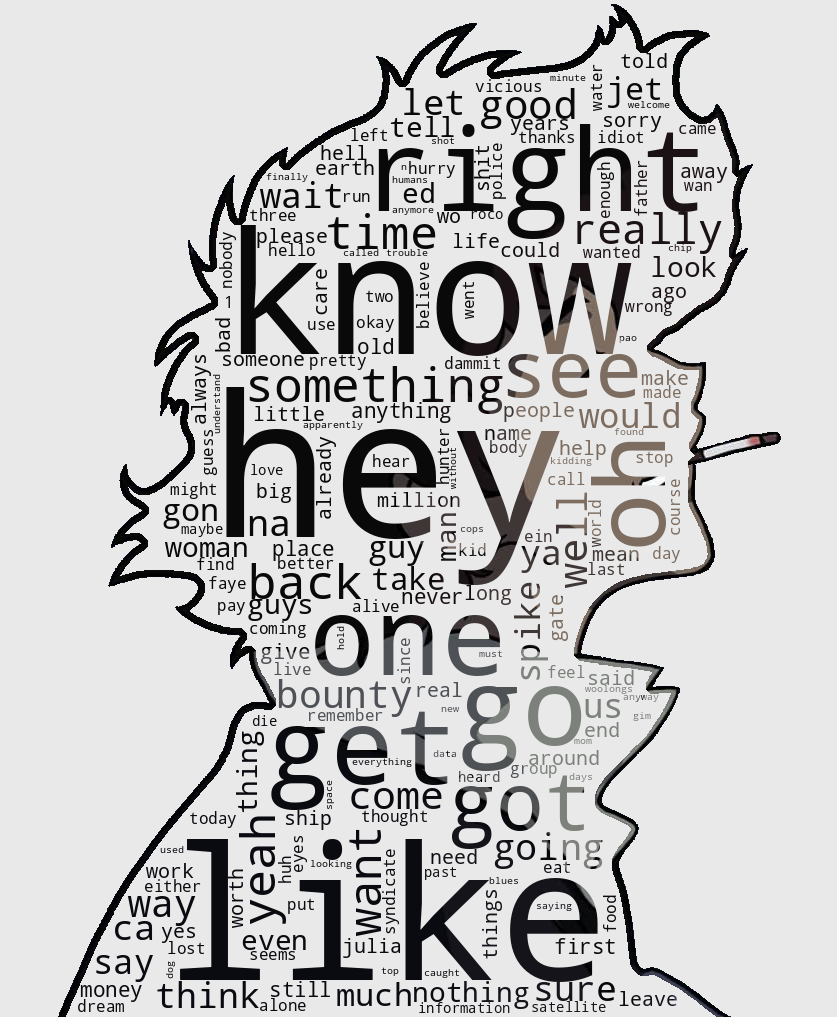
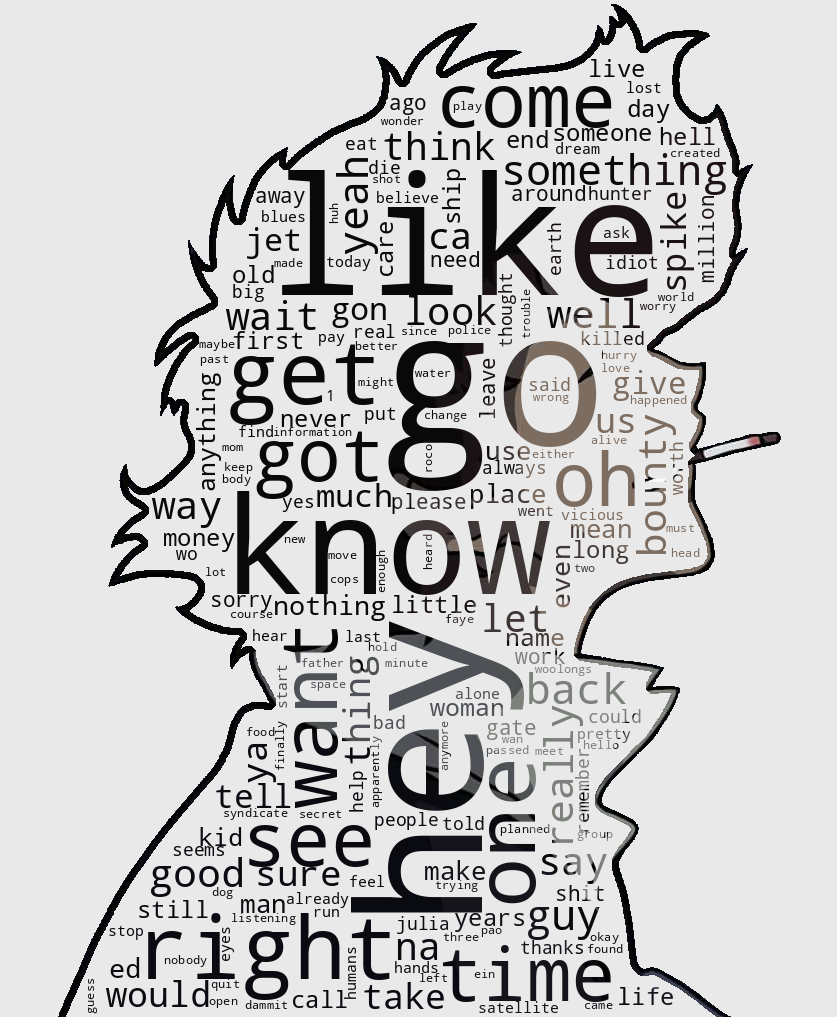
improve tokenization

Changed region(s): [[0.0932, 0.061, 0.8698, 1.0]]

diff --git a/animes/mirai_nikki/__init__.py b/animes/mirai_nikki/__init__.py
@@ -4,6 +4,7 @@ import itertools
 import os
 
 import nltk
+from nltk.tokenize import TweetTokenizer
 import webvtt
 
 
@@ -16,7 +17,8 @@ def get_words():
 
 def get_words_from_subtitles(file):
     "Get the words from the whole serie"
+    tknzr = TweetTokenizer()
     file_words = []
     for caption in webvtt.read(file):
-        file_words.extend(nltk.tokenize.word_tokenize(caption.text))
+        file_words.extend(tknzr.tokenize(caption.text))
     return file_words
